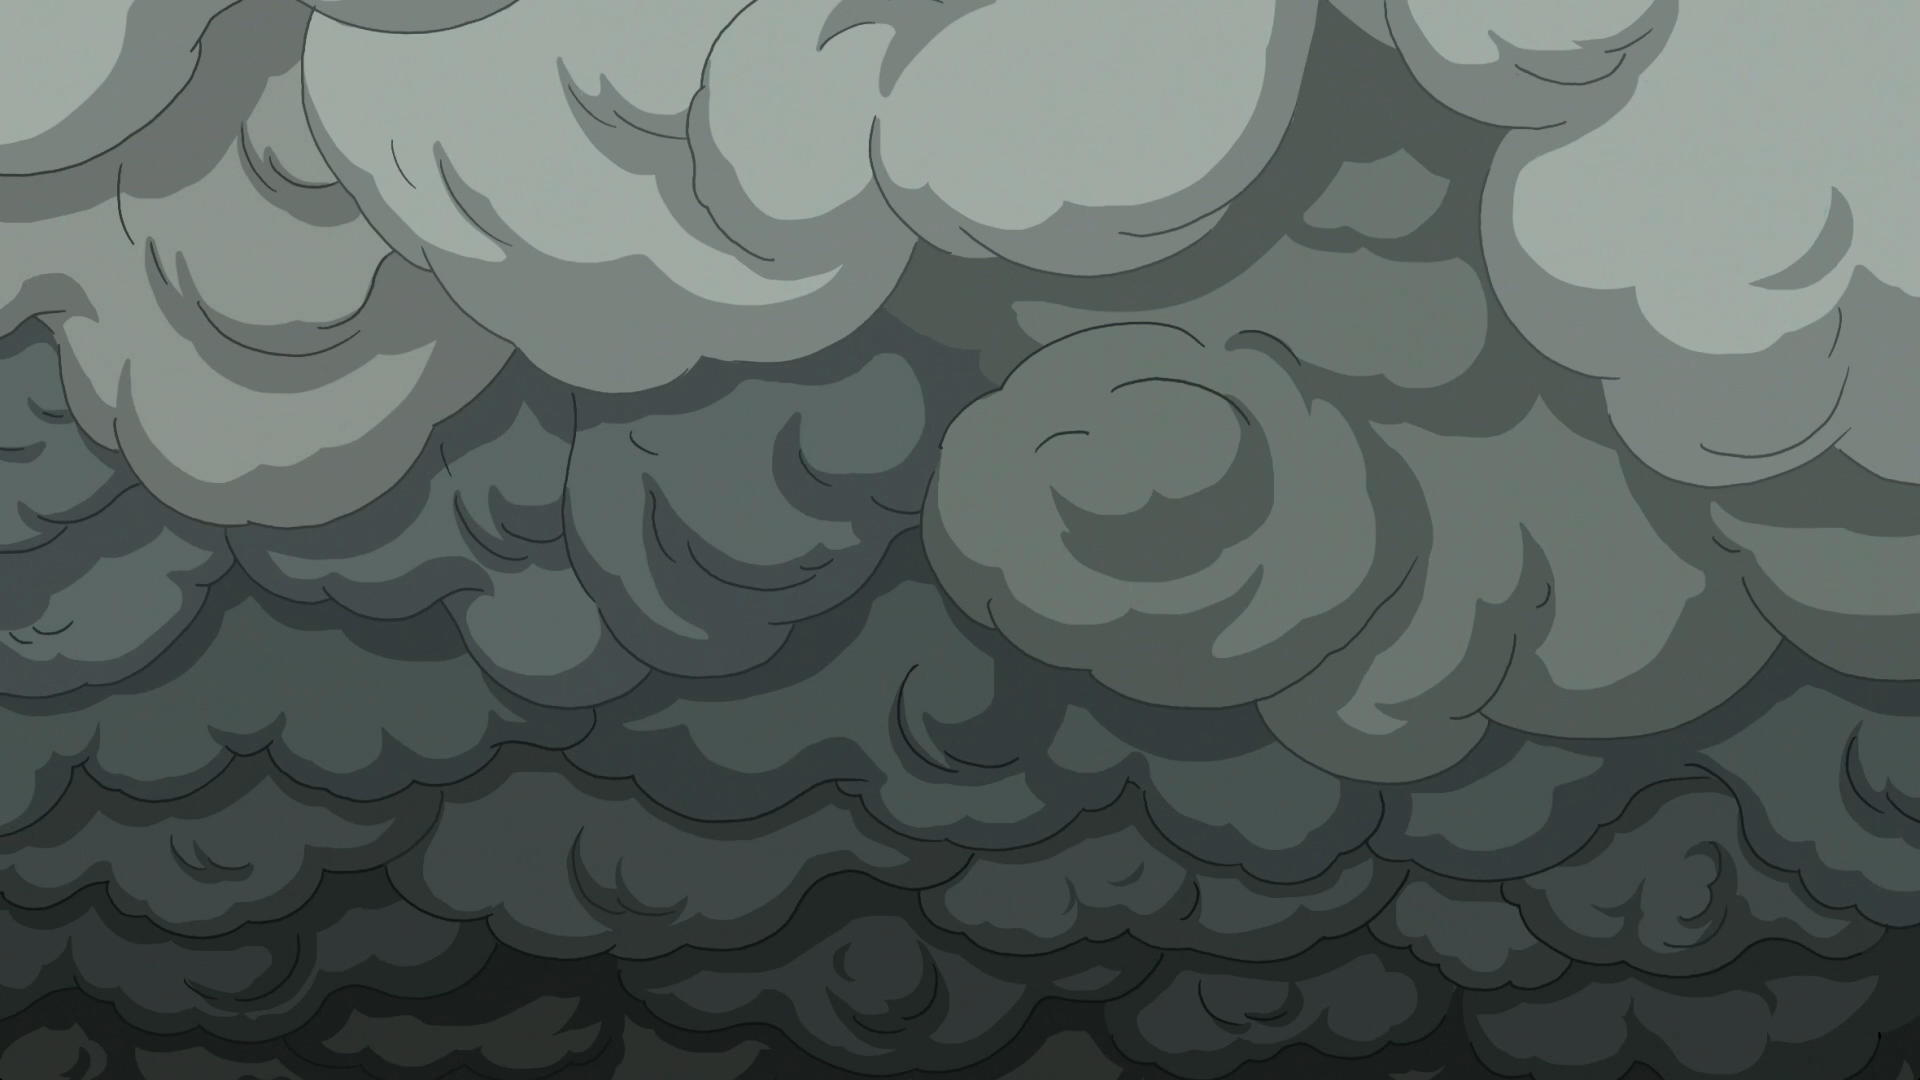
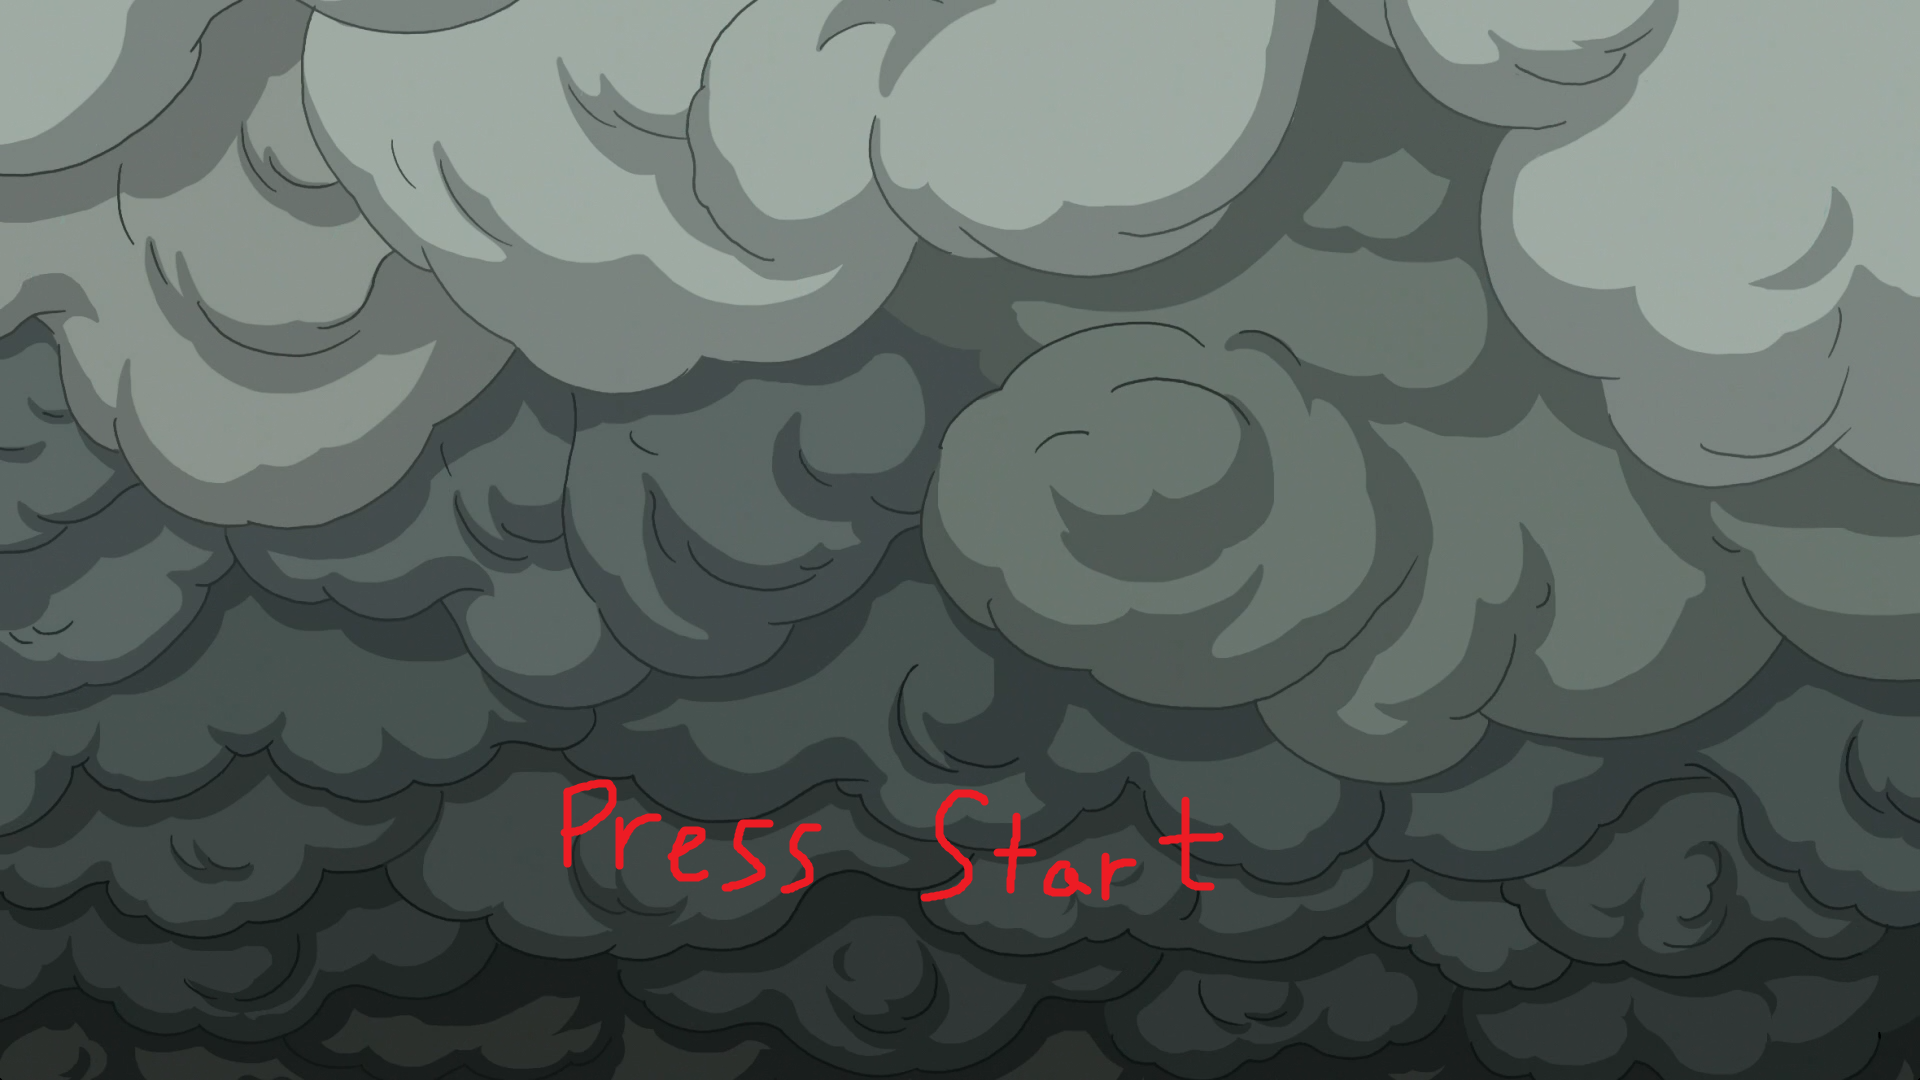
placeholder title screen added.

Changed region(s): [[0.2812, 0.7028, 0.4375, 0.825], [0.4688, 0.7333, 0.6562, 0.825], [0.4688, 0.825, 0.5, 0.8556]]

diff --git a/player.js b/player.js
@@ -263,7 +263,7 @@ Player.prototype.update = function ()   {
     }
 
 	if (this.ballState === 3) {
-        console.log(this.chargingTime);	
+        console.log(this.chargingTime);
         //increment the total charging time by the game's clock tick.
 		this.chargingTime += this.game.clockTick;
 		if (!this.controller.throw) {
@@ -298,7 +298,7 @@ Player.prototype.update = function ()   {
         var ent = this.scene.entities[i];
 
         if (ent !== this && ent.canCollide && this.boundingBox.hasCollided(ent.boundingBox)) {
-            console.log("derp, collision with ", ent.id);
+            //console.log("derp, collision with ", ent.id);
             if (ent.id === 1)   {
                 if (this.prevY < this.y && (this.y + this.height - 5) > ent.y && this.prevY + 30 + this.boundingBox.height <= ent.y)  {
                     if (this.y > ent.y - this.height + 5)   {
@@ -334,7 +334,7 @@ Player.prototype.update = function ()   {
             // if (ent.team !== this.team && ent.speed > 1) {
             //     this.isHit = true;
             // }
-            console.log(ent.id);
+        //    console.log(ent.id);
             if (ent.id === 5)   {
                 if (ent.state !== 0)    {
                     if (this.ballState === 0)   {

diff --git a/levelzero.js b/levelzero.js
@@ -21,7 +21,7 @@ function LevelZero(sceneManager, game)    {
 
     this.players = 0;
     for (; this.players < this.game.controllers.length; this.players++)   {
-        var player = new Player(game, (1136 * Math.random()) + 100, 795, this.players, game.controllers[this.players], this);
+        var player = new Player(game, (1920 * Math.random()) + 100, 795, this.players, game.controllers[this.players], this);
         this.entities.push(player);
     }
 
@@ -53,7 +53,7 @@ LevelZero.prototype.constructor = LevelZero;
 
 LevelZero.prototype.update = function() {
     if (this.game.controllers.length > this.players) {
-        var player = new Player(this.game, (1136 * Math.random())+100, 795, this.players, this.game.controllers[this.players], this);
+        var player = new Player(this.game, (1920 * Math.random())+100, 795, this.players, this.game.controllers[this.players], this);
         this.entities.push(player);
         this.players++;
     }

diff --git a/scenemanager.js b/scenemanager.js
@@ -29,6 +29,8 @@ SceneManager.prototype.loadLevel = function(scene) {
     this.scenes.push(scene);
 }
 
+
+
 /**
  * play() calls each scene's update() functions, then
  * their draw() functions.
@@ -39,6 +41,12 @@ SceneManager.prototype.play = function (ctx)	{
 	for (var i = 0; i < this.scenes.length; i++)	{
 		this.scenes[i].update();
 	}
+
+    for (var i = this.scenes.length - 1; i >= 0; --i) {
+        if (this.scenes[i].remove) {
+            this.scenes.splice(i, 1);
+        }
+    }
 
 	ctx.clearRect(0, 0, ctx.canvas.width, ctx.canvas.height);
 	ctx.save();

diff --git a/titlescreen.js b/titlescreen.js
@@ -33,6 +33,7 @@ TitleScreen.prototype.update = function() {
     // decouple this
     for (var i = 0; i < this.game.controllers.length; i++) {
         if (this.game.controllers[i].pause === true) {
+            this.isPlaying = false;
             // i = the controller that pressed start
             // pass controller as player1 to next scene
             var nextScene = new LevelZero(this.sceneManager, this.game);

diff --git a/scene.js b/scene.js
@@ -74,9 +74,10 @@ Scene.prototype.addEntity = function (entity) {
 }
 
 Scene.prototype.close = function()  {
+    console.log("Closing Scene");
     var entityCount = this.entities.length;
     for (var i = 0; i < entityCount; i++)   {
-        this.entities[i].deleteFromWorld = true;
+        this.entities[i].removeFromWorld = true;
     }
     this.remove = true;
 }
